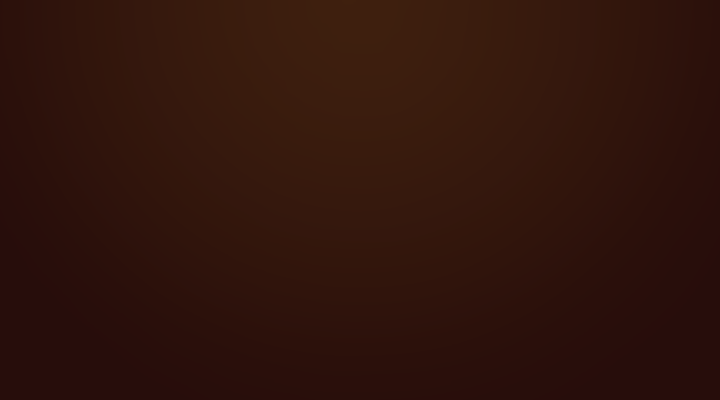
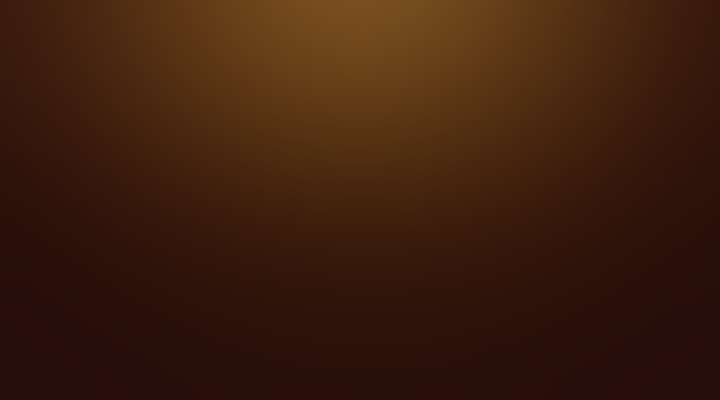
Fixed menu transition bugs

Changed region(s): [[0.1222, 0.0, 0.8556, 0.42]]

diff --git a/core/src/de/bitbrain/craft/screens/MenuScreen.java b/core/src/de/bitbrain/craft/screens/MenuScreen.java
@@ -76,7 +76,7 @@ public abstract class MenuScreen implements Screen, TweenCallback {
 	@Override
 	public final void render(float delta) {
 		
-		Gdx.gl.glClearColor(0f, 0f, 0f, 1f);
+		Gdx.gl.glClearColor(0.08f, 0.02f, 0f, 1f);
 		Gdx.gl.glClear(GL20.GL_COLOR_BUFFER_BIT);
 
 		tweenManager.update(delta);
